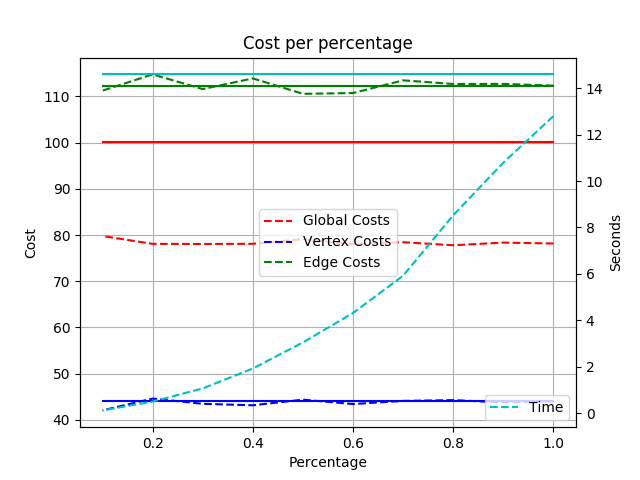
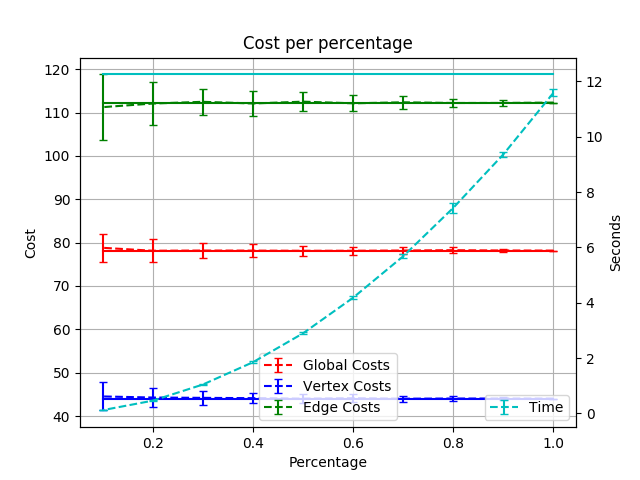
Final checks vefore qualification

diff --git a/lic_solution.py b/lic_solution.py
@@ -127,6 +127,10 @@ class Matching:
 
 if __name__ == '__main__':
     from time import time
+    import matplotlib.pyplot as plt
+    import matplotlib.patches as mpatches, matplotlib.colors as mcolors
+    from lic_display import IndexTracker, display_volume, bg3label_color_map as label_color_map, bg3label_text_map as label_text_map
+    
 
     print("Loading a single patient... ", end="", flush=True)
     t0 = time()
@@ -151,7 +155,7 @@ if __name__ == '__main__':
     t0 = time()
     watershed_labelmap = model_patient.volumes['t2'].watershed_volume()
     print("Done. {} labels found. {:.4f}s".format(watershed_labelmap.header["num_labels"], time()-t0))
-
+    #display_volume(watershed_labelmap.data)
 
     print("Building observation graph... ", end="", flush=True)
     t0 = time()
@@ -161,26 +165,70 @@ if __name__ == '__main__':
     observation_graph = lic_srg.SRG.build_from_patient(observed_patient)
     print("Done. {:.4f}s".format(time()-t0))
 
-    # displaying greedy solution
-    import matplotlib.pyplot as plt
-    import matplotlib.patches as mpatches, matplotlib.colors as mcolors
-    from lic_display import IndexTracker, display_volume, bg3label_color_map as label_color_map, bg3label_text_map as label_text_map
-    
     # generating greedy solution
-    # TODO: move this to a "lic_solution" module?
+    print("Generating greedy solution... ", end="", flush=True)
     t0 = time()
     # creating empty match dict
     match_dict = {}
     # for each vertex in the observation graph, find the closest matched model vertex (ignore edge info)
     for i, obs_vertex in enumerate(observation_graph.vertexes):
-        best_model_vertex = np.argmin([obs_vertex.cost_to(model_vertex) for model_vertex in model_graph.vertexes])
+        best_model_vertex = np.argmin([obs_vertex.cost_to(model_vertex, (0.01,0.99)) for model_vertex in model_graph.vertexes])
         match_dict[i] = best_model_vertex
     print("Done. {:.4f}s".format(time()-t0))
 
     print("Computing cost... ", end="", flush=True)
+    t0=time()
     solution = Matching(match_dict, model_graph, observation_graph)
-    cost = solution.cost(vertex_percentage=0.5,edge_percentage=0.5)
-    print("Done. Cost is {}. {:.4f}s".format(cost, time()-t0))
+    cost = solution.cost(vertex_percentage=0.2,edge_percentage=0.2)
+    print("Done. Cost is {:.2f}. {:.4f}s".format(cost, time()-t0))
+
+    # Greedy improvement
+    for improvement in range(4):
+        print("Performing greedy improvement #{}... ".format(improvement+1), end="", flush=True)
+        # Attempting to improve all vertices in the graph (TODO: heap order by cost)
+        for observation, current_prediction in match_dict.items():
+            # Computing cost of this prediction
+            sampled_vertexes = random.sample(range(len(observation_graph.vertexes)), int(0.2*len(observation_graph.vertexes))) #subsampling 20% of vertexes for edge computing
+            current_vertex_cost = observation_graph.vertexes[observation].cost_to(model_graph.vertexes[current_prediction], (0.01,0.99)) # COmputing veritical cost
+            current_edge_cost = np.sum(
+                observation_graph.adjacency_matrix[observation, other_vertex]
+                .cost_to(model_graph.adjacency_matrix[current_prediction, match_dict[other_vertex]])
+                for other_vertex in sampled_vertexes)
+            current_cost = 0.2*current_edge_cost + 0.8*current_vertex_cost
+
+            if observation == 221:
+                print("\n\tImproving vertex 221, currently matched to {}. Cost is {} + {} = {}".format(current_prediction, current_vertex_cost, current_edge_cost, current_cost))
+            #print("Improving vertex {} (currently {}). Cost is {:.1f} + {:.1f} = {:.1f}".format(observation, current_prediction, current_vertex_cost, current_edge_cost, current_cost))
+            # Attempting to improve this prediction
+            for i, potential_prediction in enumerate(model_graph.vertexes):
+                if i == current_prediction: continue # Skip same prediction
+                potential_vertex_cost = observation_graph.vertexes[observation].cost_to(potential_prediction, (0.02,0.98)) # COmputing veritical cost
+                potential_edge_cost = np.sum(list(
+                    observation_graph.adjacency_matrix[observation, other_vertex]
+                    .cost_to(model_graph.adjacency_matrix[i, match_dict[other_vertex]])
+                    for other_vertex in sampled_vertexes))
+                potential_cost = 0.2*potential_edge_cost + 0.8*potential_vertex_cost
+
+                if observation == 221 and i == 2:
+                    print("\tMatching to BGBody: Cost is {} + {} = {}".format(potential_vertex_cost, potential_edge_cost, potential_cost))
+
+                # Improving
+                if potential_cost < current_cost:
+                    current_cost = potential_cost
+                    match_dict[observation] = current_prediction = i
+                    #print("Improved vertex {} to {}. Cost is {:.1f} + {:.1f} = {:.1f}".format(observation, i, potential_vertex_cost, potential_edge_cost, potential_cost))
+        print("Done. {:.4f}s".format(time()-t0))
+
+
+
+        # Computing improved cost
+
+        print("Computing improved cost... ", end="", flush=True)
+        t0 = time()
+        solution = Matching(match_dict, model_graph, observation_graph)
+        cost = solution.cost(weights=(0.8,0.2),vertex_percentage=0.2,edge_percentage=0.2)
+        print("Done. Cost is {:.2f}. {:.4f}s".format(cost, time()-t0))
+
 
     # Assembling and displaying predicted labelmap
     predicted_labelmap = deepcopy(watershed_labelmap.data)

diff --git a/hack_stochastic_cost.py b/hack_stochastic_cost.py
@@ -79,7 +79,7 @@ print("Time to compute cost: {:.4f}s".format(base_time))
 # Parameters
 # ----------
 #seeds = [1]
-seeds = range(3) # seeds for experiments
+seeds = range(100) # seeds for experiments
 percentages = np.linspace(1,0.1,10) # disturbance count
 
 # Results
@@ -130,6 +130,10 @@ mean_edge_costs = np.mean(all_edge_costs, 0)
 mean_vertex_costs = np.mean(all_vertex_costs, 0)
 mean_costs = np.mean(all_costs, 0)
 mean_times = np.mean(all_times, 0)
+std_edge_costs = np.std(all_edge_costs, 0)
+std_vertex_costs = np.std(all_vertex_costs, 0)
+std_costs = np.std(all_costs, 0)
+std_times = np.std(all_times, 0)
 
 fig, ax1 = plt.subplots()
 # Plotting a line representing real cost
@@ -137,14 +141,14 @@ ax1.plot(percentages, [base_cost]*len(percentages),"r-")
 ax1.plot(percentages, [base_vertex_cost]*len(percentages),"b-")
 ax1.plot(percentages, [base_edge_cost]*len(percentages),"g-")
 # Plotting computed costs per percentage
-ax1.plot(percentages, mean_costs, "r--", label="Global Costs")
-ax1.plot(percentages, mean_vertex_costs, "b--", label="Vertex Costs")
-ax1.plot(percentages, mean_edge_costs, "g--", label="Edge Costs")
+ax1.errorbar(percentages, mean_costs, std_costs, None, "r--", capsize=3, label="Global Costs")
+ax1.errorbar(percentages, mean_vertex_costs, std_vertex_costs, None, "b--", capsize=3, label="Vertex Costs")
+ax1.errorbar(percentages, mean_edge_costs, std_edge_costs, None, "g--", capsize=3, label="Edge Costs")
 ax1.set_ylabel("Cost")
 
 ax2 = ax1.twinx()
 ax2.plot(percentages, [base_time]*len(percentages),"c-")
-ax2.plot(percentages, mean_times, "c--", label="Time")
+ax2.errorbar(percentages, mean_times, std_times, None, "c--", capsize=3, label="Time")
 ax2.set_ylabel("Seconds")
 
 ax1.set_xlabel("Percentage")

diff --git a/lic_attributes.py b/lic_attributes.py
@@ -97,6 +97,13 @@ def compute_centroids(patient):
                             "real": [(centroid[i]*volume.header["spacings"][i])+volume.header["initial_position"][i] for i in range(len(centroid))],
                             "relative": [centroid[i]/volume.data.shape[i] for i in range(len(centroid))]}
 
+    # normalize to mean 0, stddev 1
+    for flavor in ["voxel", "real", "relative"]:
+        for index in range(3):
+            mean, stddev = np.mean([element[flavor][index] for element in centroids.values()]), np.std([element[flavor][index] for element in centroids.values()])
+            for element in centroids.values():
+                element[flavor][index] = (element[flavor][index] - mean)/stddev
+
     return centroids
 
 
@@ -140,6 +147,12 @@ def compute_mean_intensities(patient):
 
         mean_intensities[label] = {"real": np.mean(volume.data.flatten()[indexes==label])}
         mean_intensities[label]["relative"] = (mean_intensities[label]["real"]-volume.data_min)/(volume.data_max-volume.data_min)
+
+    # normalize to mean 0, stddev 1
+    for flavor in ["real", "relative"]:
+        mean, stddev = np.mean([element[flavor] for element in mean_intensities.values()]), np.std([element[flavor] for element in mean_intensities.values()])
+        for key in mean_intensities:
+            mean_intensities[key][flavor] = (mean_intensities[key][flavor] - mean)/stddev
 
     return mean_intensities
 

diff --git a/lic_srg.py b/lic_srg.py
@@ -81,7 +81,7 @@ class SRG:
         # Assembling the list of vertexes
         vertexes = []
         for label in centroids.keys():
-            new_vertex = Vertex(label, {"centroid":centroids[label]["voxel"], "mean_intensity": mean_intensities[label]["relative"]})
+            new_vertex = Vertex(label, {"centroid":centroids[label]["real"], "mean_intensity": mean_intensities[label]["relative"]})
             vertexes.append(new_vertex)
 
         # Assembling the adjacency matrix
@@ -154,7 +154,14 @@ class Vertex:
         # Computing euclidean distances per attributes
         distances = np.empty((len(self.attributes)),)
         for i, attribute_key in enumerate(self.attributes.keys()):
+            print("cost between {} and {}".format(self, other))
+            print("computing distance for '{}'".format(attribute_key))
+            print("values are:\nself  {}\nother {}".format(self.attributes[attribute_key], other.attributes[attribute_key]))
             distances[i] = np.linalg.norm(np.array(self.attributes[attribute_key]) - np.array(other.attributes[attribute_key]))
+            print("distance is {}".format(distances[i]))
+
+        import sys
+        sys.exit()
 
         # weighting distances
         cost = np.sum(weights * distances)/np.sum(weights)
